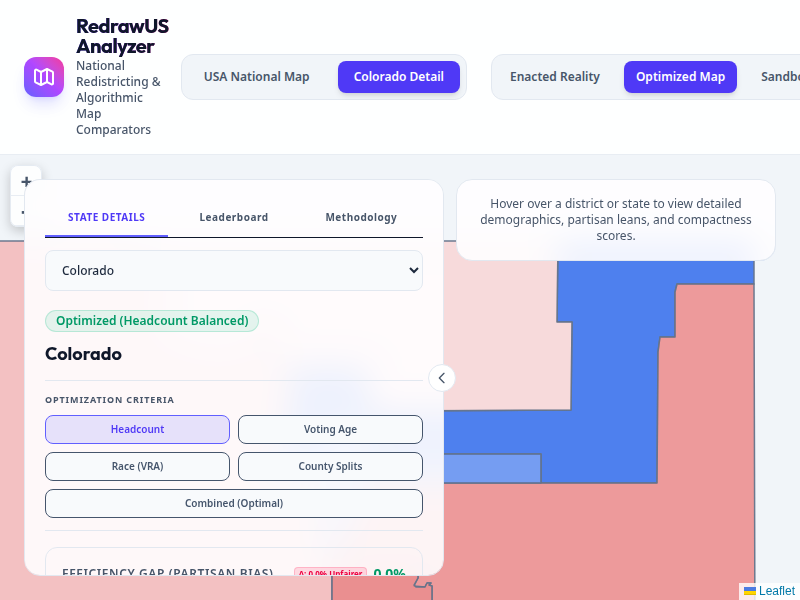
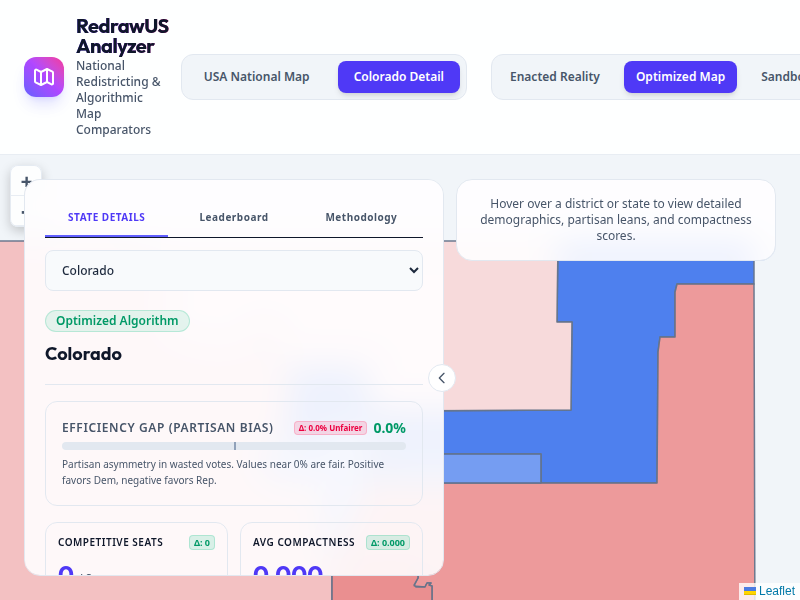
Fix UI displaying NaN, remove unused swipe map feature, remove non-functional criteria buttons, add regression test

Changed region(s): [[0.0625, 0.63, 0.5312, 0.96], [0.1562, 0.51, 0.3438, 0.57], [0.5, 0.63, 0.5312, 0.66]]

diff --git a/src/UIController.js b/src/UIController.js
@@ -29,12 +29,6 @@ export class UIController {
     getActiveLayerKey() {
         if (this.activeMode === 'enacted') return 'enacted';
         if (this.activeMode === 'tuned') return 'tuned';
-        if (this.activeView === 'national') return 'optimized_all';
-        
-        const db = this.app.dataService.metricsDatabase[this.activeState];
-        const target = 'optimized_' + this.activeCriteria;
-        if (db && db[target]) return target;
-        
         return 'optimized_all';
     }
 
@@ -309,18 +303,11 @@ export class UIController {
             statusPill.innerText = `${prefixLabel}Enacted Reality`;
             statusPill.className = "inline-flex items-center px-2 sm:px-2.5 py-0.5 sm:py-1 rounded-full text-[10px] sm:text-xs font-medium bg-red-100 text-red-800 dark:bg-red-900/30 dark:text-red-400 border border-red-200 dark:border-red-800/50 mt-1 sm:mt-0";
         } else {
-            const criteriaLabel = {
-                'headcount': 'Headcount Balanced',
-                'age': 'Voting Age Balanced',
-                'race': 'VRA Balanced',
-                'county': 'County Splits Minimizing',
-                'all': 'Multi-Objective Combined'
-            }[this.activeCriteria];
-            statusPill.innerText = `${prefixLabel}Optimized (${criteriaLabel})`;
+            statusPill.innerText = `${prefixLabel}Optimized Algorithm`;
             statusPill.className = 'inline-flex items-center px-2.5 py-0.5 rounded-full text-xs font-semibold bg-emerald-500/10 text-emerald-600 dark:text-emerald-400 border border-emerald-500/20 mb-2';
         }
         
-        const eg = data.efficiency_gap;
+        const eg = data.efficiency_gap || 0.0;
         const egPct = Math.abs(eg * 100).toFixed(1);
         const egText = eg === 0 ? '0.0%' : `${egPct}% ${eg > 0 ? 'Rep Lean' : 'Dem Lean'}`;
         const egEl = document.getElementById('metric-eg');
@@ -343,14 +330,17 @@ export class UIController {
             bar.style.left = '50%';
         }
         
-        document.getElementById('metric-comp').innerText = data.competitive_seats;
-        document.getElementById('metric-compac').innerText = data.avg_compactness.toFixed(3);
+        const comp = data.competitive_seats || 0;
+        document.getElementById('metric-comp').innerText = comp;
+        const compac = data.avg_compactness || 0.0;
+        document.getElementById('metric-compac').innerText = compac.toFixed(3);
         
-        const mmd = data.mean_median_diff;
+        const mmd = data.mean_median_diff || 0.0;
         const mmdPct = (Math.abs(mmd) * 100).toFixed(1);
-        document.getElementById('metric-mmd').innerText = `${mmdPct}% ${mmd >= 0 ? 'D' : 'R'}`;
+        document.getElementById('metric-mmd').innerText = mmd === 0 ? '0.0%' : `${mmdPct}% ${mmd >= 0 ? 'D' : 'R'}`;
         
-        document.getElementById('metric-splits').innerText = data.county_splits;
+        const splits = data.county_splits || 0;
+        document.getElementById('metric-splits').innerText = splits;
         
         if (this.activeView === 'state') {
             document.getElementById('metric-min-influence').innerText = data.minority_influence_seats;
@@ -358,13 +348,13 @@ export class UIController {
         }
         
         const deltas = {
-            'metric-eg-diff': this.activeMode === 'optimized' ? (Math.abs(eg * 100) - Math.abs(enactedData.efficiency_gap * 100)).toFixed(1) + '%' : null,
-            'metric-comp-diff': this.activeMode === 'optimized' ? (data.competitive_seats - enactedData.competitive_seats) : null,
-            'metric-compac-diff': this.activeMode === 'optimized' ? (data.avg_compactness - enactedData.avg_compactness).toFixed(3) : null,
-            'metric-mmd-diff': this.activeMode === 'optimized' ? (Math.abs(mmd * 100) - Math.abs(enactedData.mean_median_diff * 100)).toFixed(1) + '%' : null,
-            'metric-splits-diff': this.activeMode === 'optimized' ? (data.county_splits - enactedData.county_splits) : null,
-            'metric-min-influence-diff': (this.activeMode === 'optimized' && this.activeView === 'state') ? (data.minority_influence_seats - enactedData.minority_influence_seats) : null,
-            'metric-min-majority-diff': (this.activeMode === 'optimized' && this.activeView === 'state') ? (data.minority_majority_seats - enactedData.minority_majority_seats) : null
+            'metric-eg-diff': this.activeMode === 'optimized' ? (Math.abs(eg * 100) - Math.abs((enactedData.efficiency_gap || 0.0) * 100)).toFixed(1) + '%' : null,
+            'metric-comp-diff': this.activeMode === 'optimized' ? (comp - (enactedData.competitive_seats || 0)) : null,
+            'metric-compac-diff': this.activeMode === 'optimized' ? (compac - (enactedData.avg_compactness || 0.0)).toFixed(3) : null,
+            'metric-mmd-diff': this.activeMode === 'optimized' ? (Math.abs(mmd * 100) - Math.abs((enactedData.mean_median_diff || 0.0) * 100)).toFixed(1) + '%' : null,
+            'metric-splits-diff': this.activeMode === 'optimized' ? (splits - (enactedData.county_splits || 0)) : null,
+            'metric-min-influence-diff': (this.activeMode === 'optimized' && this.activeView === 'state') ? ((data.minority_influence_seats || 0) - (enactedData.minority_influence_seats || 0)) : null,
+            'metric-min-majority-diff': (this.activeMode === 'optimized' && this.activeView === 'state') ? ((data.minority_majority_seats || 0) - (enactedData.minority_majority_seats || 0)) : null
         };
         
         Object.keys(deltas).forEach(id => {
@@ -429,23 +419,13 @@ export class UIController {
             if (tunedBtn) tunedBtn.className = "flex-1 md:flex-none px-2.5 py-1.5 sm:px-3 sm:py-2 text-[10px] sm:text-xs font-semibold rounded sm:rounded-lg transition-all duration-300 bg-indigo-600 text-white shadow-md";
         }
         
-        if (this.app.mapController.swipeControl) {
-            this.app.mapController.toggleSwipeMode();
-            const swipeBtn = document.getElementById('btn-toggle-swipe');
-            if (swipeBtn) swipeBtn.className = "px-3 py-2 text-xs font-semibold rounded-lg transition-all duration-300 text-slate-500 dark:text-slate-400 hover:text-slate-900 dark:hover:text-white flex items-center gap-1";
-        }
-        
-        const criteriaPanel = document.getElementById('criteria-selector-container');
         const playgroundPanel = document.getElementById('playground-slider-container');
         
         if (mode === 'enacted') {
-            criteriaPanel.classList.add('hidden');
             playgroundPanel.classList.add('hidden');
         } else if (mode === 'optimized') {
-            criteriaPanel.classList.remove('hidden');
             playgroundPanel.classList.add('hidden');
         } else if (mode === 'tuned') {
-            criteriaPanel.classList.add('hidden');
             playgroundPanel.classList.remove('hidden');
             this.syncSlidersToActiveState();
         }
@@ -466,41 +446,7 @@ export class UIController {
         }
     }
 
-    switchCriteria(criteria) {
-        if (criteria === this.activeCriteria) return;
-        
-        const prevKey = this.getActiveLayerKey();
-        this.activeCriteria = criteria;
-        
-        if (this.activeView === 'national') {
-            this.app.mapController.nationalLayer.setStyle((f) => this.app.mapController.getNationalStyle(f));
-        } else {
-            if (this.app.mapController.layers[prevKey]) this.app.mapController.map.removeLayer(this.app.mapController.layers[prevKey]);
-            const newKey = this.getActiveLayerKey();
-            if (this.app.mapController.layers[newKey]) {
-                this.app.mapController.map.addLayer(this.app.mapController.layers[newKey]);
-            }
-        }
-        
-        const buttons = {
-            'headcount': document.getElementById('opt-headcount'),
-            'age': document.getElementById('opt-age'),
-            'race': document.getElementById('opt-race'),
-            'county': document.getElementById('opt-county'),
-            'all': document.getElementById('opt-all')
-        };
-        
-        Object.keys(buttons).forEach(k => {
-            const baseClass = k === 'all' ? "col-span-2 " : "";
-            if (k === criteria) {
-                buttons[k].className = baseClass + "px-2 py-1.5 rounded-lg border border-indigo-500 bg-indigo-500/15 text-indigo-600 dark:text-indigo-200 font-semibold hover:border-indigo-400 transition-all";
-            } else {
-                buttons[k].className = baseClass + "px-2 py-1.5 rounded-lg border border-slate-250 dark:border-slate-800 bg-slate-50 dark:bg-slate-900 text-slate-600 dark:text-slate-400 font-semibold hover:border-slate-400 hover:text-slate-900 dark:hover:text-slate-200 transition-all";
-            }
-        });
-        
-        this.updateSummaryDashboard();
-    }
+
 
     switchViewMode(view) {
         if (this.activeView === view) return;
@@ -508,17 +454,10 @@ export class UIController {
         
         const nationalBtn = document.getElementById('btn-view-national');
         const stateBtn = document.getElementById('btn-view-state');
-        const swipeBtn = document.getElementById('btn-toggle-swipe');
         
         if (view === 'national') {
             nationalBtn.className = "px-4 py-2 text-xs font-semibold rounded-lg transition-all duration-300 bg-indigo-600 text-white shadow-md";
             stateBtn.className = "px-4 py-2 text-xs font-semibold rounded-lg transition-all duration-300 text-slate-500 dark:text-slate-400 hover:text-slate-900 dark:hover:text-white";
-            
-            if (swipeBtn) swipeBtn.classList.add('hidden');
-            
-            if (this.app.mapController.swipeControl) {
-                this.app.mapController.toggleSwipeMode(); // Disable swipe before switching
-            }
             
             this.app.mapController.map.flyToBounds(this.app.mapController.US_BOUNDS, {
                 duration: 1.5,
@@ -531,8 +470,7 @@ export class UIController {
         } else {
             stateBtn.className = "px-4 py-2 text-xs font-semibold rounded-lg transition-all duration-300 bg-indigo-600 text-white shadow-md";
             nationalBtn.className = "px-4 py-2 text-xs font-semibold rounded-lg transition-all duration-300 text-slate-500 dark:text-slate-400 hover:text-slate-900 dark:hover:text-white";
-            
-            if (swipeBtn) swipeBtn.classList.remove('hidden');
+
             
             this.app.mapController.map.removeLayer(this.app.mapController.nationalLayer);
             
@@ -655,35 +593,5 @@ export class UIController {
         }
     }
 
-    toggleSwipe() {
-        if (this.activeView !== 'state') return;
-        this.app.mapController.toggleSwipeMode();
-        
-        const swipeBtn = document.getElementById('btn-toggle-swipe');
-        const enactedBtn = document.getElementById('toggle-enacted');
-        const optimizedBtn = document.getElementById('toggle-optimized');
-        const tunedBtn = document.getElementById('toggle-tuned');
-        
-        const activeClass = "px-3 py-2 text-xs font-semibold rounded-lg transition-all duration-300 bg-indigo-600 text-white shadow-md flex items-center gap-1";
-        const inactiveClass = "px-3 py-2 text-xs font-semibold rounded-lg transition-all duration-300 text-slate-500 dark:text-slate-400 hover:text-slate-900 dark:hover:text-white flex items-center gap-1";
-        
-        const baseClass = "px-3 py-2 text-xs font-semibold rounded-lg transition-all duration-300";
-        const inactiveBase = `${baseClass} text-slate-500 dark:text-slate-400 hover:text-slate-900 dark:hover:text-white`;
-        
-        if (this.app.mapController.swipeControl) {
-            swipeBtn.className = activeClass;
-            [enactedBtn, optimizedBtn, tunedBtn].forEach(btn => {
-                if (btn) btn.className = inactiveBase;
-            });
-            document.getElementById('criteria-selector-container').classList.add('hidden');
-            document.getElementById('playground-slider-container').classList.add('hidden');
-        } else {
-            swipeBtn.className = inactiveClass;
-            // Restore previous mode state
-            this.activeMode = null; // force refresh
-            const mode = document.getElementById('toggle-tuned').classList.contains('bg-indigo-600') ? 'tuned' : 
-                         document.getElementById('toggle-optimized').classList.contains('bg-indigo-600') ? 'optimized' : 'enacted';
-            this.switchMode(mode);
-        }
-    }
+
 }

diff --git a/index.html b/index.html
@@ -18,7 +18,7 @@
           crossorigin=""/>
           
     <!-- Leaflet Side-by-Side CSS -->
-    <link rel="stylesheet" href="https://cdn.jsdelivr.net/gh/digidem/leaflet-side-by-side@2.0.0/leaflet-side-by-side.css" />
+
 </head>
 <body class="bg-slate-50 dark:bg-slate-950 font-sans text-slate-900 dark:text-slate-100 min-h-screen overflow-hidden flex flex-col transition-colors duration-300">
 
@@ -91,12 +91,6 @@
                 </button>
                 <button id="toggle-tuned" aria-label="Display Interactive Sandbox Map" aria-pressed="false" class="flex-1 md:flex-none px-2.5 py-1.5 sm:px-3 sm:py-2 text-[10px] sm:text-xs font-semibold rounded sm:rounded-lg transition-all duration-300 text-slate-500 dark:text-slate-400 hover:text-slate-900 dark:hover:text-white">
                     Sandbox Playground
-                </button>
-                <button id="btn-toggle-swipe" aria-label="Toggle Side-by-Side Swipe Comparison" aria-pressed="false" class="hidden flex-1 md:flex-none px-2.5 py-1.5 sm:px-3 sm:py-2 text-[10px] sm:text-xs font-semibold rounded sm:rounded-lg transition-all duration-300 text-slate-500 dark:text-slate-400 hover:text-slate-900 dark:hover:text-white flex items-center justify-center gap-1 mt-1 md:mt-0">
-                    <svg xmlns="http://www.w3.org/2000/svg" class="h-3 w-3 sm:h-4 sm:w-4" fill="none" viewBox="0 0 24 24" stroke="currentColor" stroke-width="2" aria-hidden="true">
-                        <path stroke-linecap="round" stroke-linejoin="round" d="M8 7h12m0 0l-4-4m4 4l-4 4m0 6H4m0 0l4 4m-4-4l4-4" />
-                    </svg>
-                    Swipe Compare
                 </button>
             </div>
 
@@ -207,28 +201,7 @@
                             Colorado
                         </h2>
                         
-                        <!-- Optimization Criteria Selector -->
-                        <div id="criteria-selector-container" class="mt-3 border-t border-slate-200 dark:border-slate-800/60 pt-3 hidden" role="group" aria-label="Optimization Algorithms">
-                            <label class="text-[9px] font-bold text-slate-500 dark:text-slate-400 uppercase tracking-widest block mb-2">Optimization Criteria</label>
-                            <div class="grid grid-cols-2 gap-2 text-center text-[10px]">
-                                <button id="opt-headcount" aria-label="Optimize by Headcount Equality" aria-pressed="true" class="px-2 py-1.5 rounded-lg border border-indigo-500 bg-indigo-500/15 text-indigo-600 dark:text-indigo-200 font-semibold hover:border-indigo-400 transition-all">
-                                    Headcount
-                                </button>
-                                <button id="opt-age" aria-label="Optimize by Voting Age Population" aria-pressed="false" class="px-2 py-1.5 rounded-lg border border-slate-250 dark:border-slate-800 bg-slate-50 dark:bg-slate-950 text-slate-600 dark:text-slate-400 font-semibold hover:border-slate-400 hover:text-slate-900 dark:hover:text-slate-200 transition-all">
-                                    Voting Age
-                                </button>
-                                <button id="opt-race" aria-label="Optimize by Race for VRA Compliance" aria-pressed="false" class="px-2 py-1.5 rounded-lg border border-slate-250 dark:border-slate-800 bg-slate-50 dark:bg-slate-950 text-slate-600 dark:text-slate-400 font-semibold hover:border-slate-400 hover:text-slate-200 transition-all">
-                                    Race (VRA)
-                                </button>
-                                <button id="opt-county" aria-label="Optimize to Minimize County Splits" aria-pressed="false" class="px-2 py-1.5 rounded-lg border border-slate-250 dark:border-slate-800 bg-slate-50 dark:bg-slate-950 text-slate-600 dark:text-slate-400 font-semibold hover:border-slate-400 hover:text-slate-200 transition-all">
-                                    County Splits
-                                </button>
-                                <button id="opt-all" aria-label="Optimize using Combined Multi-objective Function" aria-pressed="false" class="col-span-2 px-2 py-1.5 rounded-lg border border-slate-250 dark:border-slate-800 bg-slate-50 dark:bg-slate-950 text-slate-600 dark:text-slate-400 font-semibold hover:border-slate-400 hover:text-slate-200 transition-all">
-                                    Combined (Optimal)
-                                </button>
-                            </div>
-                        </div>
-                        
+
                         <!-- Interactive Playground Slider Panel -->
                         <div id="playground-slider-container" class="mt-3 border-t border-slate-200 dark:border-slate-800/60 pt-3 hidden">
                             <label class="text-[9px] font-bold text-slate-500 dark:text-slate-400 uppercase tracking-widest block mb-2">Sandbox Map Playground</label>
@@ -605,7 +578,7 @@
             crossorigin=""></script>
             
     <!-- Leaflet Side-by-Side (Swipe Tool) -->
-    <script src="https://cdn.jsdelivr.net/gh/digidem/leaflet-side-by-side@2.0.0/leaflet-side-by-side.min.js"></script>
+
 
     <!-- GeoJSON-VT for high performance Canvas Vector Tiles -->
     <script src="https://unpkg.com/geojson-vt@3.2.0/geojson-vt.js"></script>

diff --git a/src/MapController.js b/src/MapController.js
@@ -365,33 +365,5 @@ export class MapController {
         document.getElementById('detail-state-name').innerText = data.name;
         this.app.uiController.updateSummaryDashboard();
     }
-    
-    toggleSwipeMode() {
-        if (!this.swipeControl) {
-            // Enable swipe compare
-            Object.values(this.layers).forEach(layer => this.map.removeLayer(layer));
-            
-            const leftLayer = this.layers['enacted'];
-            const rightLayer = this.layers['optimized_all'];
-            
-            leftLayer.addTo(this.map);
-            rightLayer.addTo(this.map);
-            
-            // @ts-ignore
-            this.swipeControl = L.control.sideBySide(leftLayer, rightLayer);
-            this.swipeControl.addTo(this.map);
-        } else {
-            // Disable swipe compare
-            this.map.removeControl(this.swipeControl);
-            this.swipeControl = null;
-            
-            this.map.removeLayer(this.layers['enacted']);
-            this.map.removeLayer(this.layers['optimized_all']);
-            
-            const activeKey = this.app.uiController.getActiveLayerKey();
-            if (this.layers[activeKey]) {
-                this.map.addLayer(this.layers[activeKey]);
-            }
-        }
-    }
+
 }

diff --git a/src/main.js b/src/main.js
@@ -151,14 +151,6 @@ class App {
             document.getElementById('toggle-optimized').addEventListener('click', () => this.uiController.switchMode('optimized'));
             document.getElementById('toggle-tuned').addEventListener('click', () => this.uiController.switchMode('tuned'));
 
-            document.getElementById('btn-toggle-swipe').addEventListener('click', () => {
-                this.uiController.toggleSwipe();
-            });
-            document.getElementById('opt-headcount').addEventListener('click', () => this.uiController.switchCriteria('headcount'));
-            document.getElementById('opt-age').addEventListener('click', () => this.uiController.switchCriteria('age'));
-            document.getElementById('opt-race').addEventListener('click', () => this.uiController.switchCriteria('race'));
-            document.getElementById('opt-county').addEventListener('click', () => this.uiController.switchCriteria('county'));
-            document.getElementById('opt-all').addEventListener('click', () => this.uiController.switchCriteria('all'));
 
             const sliderEg = document.getElementById('slider-eg');
             const sliderCompac = document.getElementById('slider-compac');
